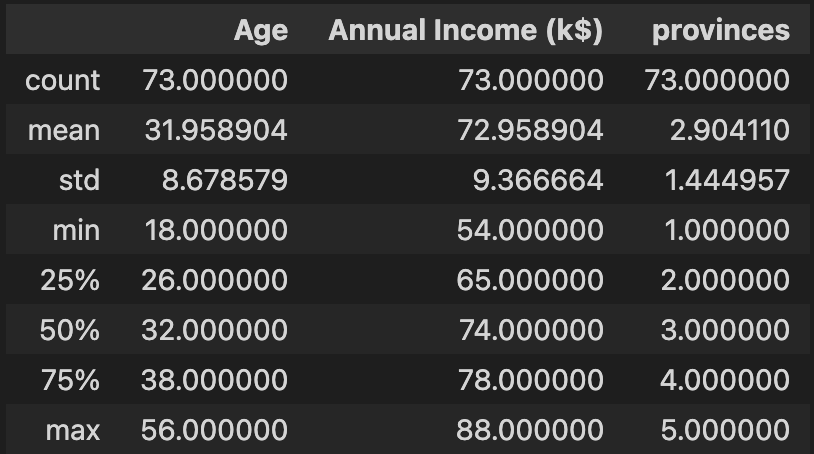
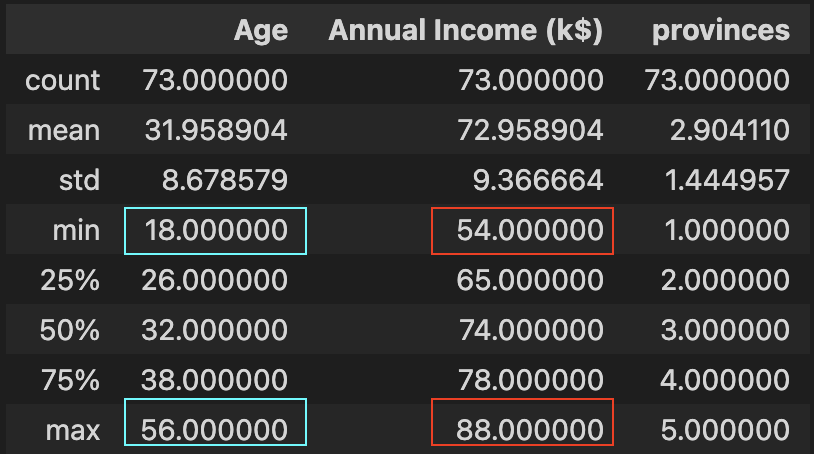
[IMP] added customer_frequency data to analysis

diff --git a/journals/2-cust-seg.html b/journals/2-cust-seg.html
@@ -174,7 +174,7 @@
                             <li>Plot result</li>
                             <p>I know, the chart is hella-funky. Bottom line is, we want to know which cluster is the most dense. Hence we can count how many are there using code, and result, is the first cluster with 73 variables.</p>
                             <img class="img-fluid" src="../assets/posts/2-cust-seg-model5.png" alt="..." />
-                            <p>Now, we analyse deeper on first cluster, below the summary of the data in cluster 1 & countplot of the province showing which is the top province, shows that we can focus on age between 18-56, income between 54-88, province 1 & 3 (java and sulawesi)</p>
+                            <p>Now, we analyse deeper on first cluster, below the summary of the data in cluster 1 & countplot of the province showing which is the top province, shows that we can focus on <u>age between 18-56, income between 54-88, province 1 & 3 (java and sulawesi)</u></p>
                             <img class="img-fluid" src="../assets/posts/2-cust-seg-model7.png" alt="..." />
                             <br/>
                             <br/>
@@ -234,8 +234,60 @@
 
                         </ol>
 
+                        <!-- p8 -->
+                        <h2 class="section-heading">Taking a Step Further</h2>
+                        <p>Let's introduce another variable "customer_frequency" which represents, how frequent does the customer come to our shop and made purchase. its a good feature as we can know from here on what kind of customer we have that has come most frequently</p>
+                        <p>Remember, OSEMN is not a linear process, its an iterative process. meaning we might go back to one of the step again in order to improve the model</p>
+
+                        <h4 class="section-heading">Proposed Solution</h4>
+                        <p>As our main question is "which group of people we should focus on to reach out by our marketing team?", proposed solution is :</p>
+                       
+
+                        <p><b>1) Add in "customer_frequency" data & make sure its clean (Obtain & Scrub)</b></p>
+                        <ul>
+                            <li>For this example, we will be using dummy data, below is peek of the data</li>
+                            <img class="img-fluid" src="../assets/posts/2-cust-seg-imp-o1.png" alt="..." />
+                        </ul>
+
+
+                        <p><b>2) Calculate mean of the "customer_freqency" feature & get data that is above mean only (Explore)</b></p>
+                        <ul>
+                            <li>From .describe(), we can see the mean is 9 (round down)</li>
+                            <img class="img-fluid" src="../assets/posts/2-cust-seg-imp-e1.png" alt="..." />
+                        </ul>
+
+
+                        <p><b>3) Do k-means to get which cluster we should focus on (Model)</b></p>
+                        <ul>
+                            <img class="img-fluid" src="../assets/posts/2-cust-seg-imp-m1.png" alt="..." />
+                            <li>We can see above that after number 6 on the x-axis, the decrease aren't much anymore, hence K=6. and below is K-means plot with K=6</li>
+                            <img class="img-fluid" src="../assets/posts/2-cust-seg-imp-m2.png" alt="..." />
+                            <li>It does make sense too if we select two biggest cluster (not one). And from calculating on how much data in each cluster, we can see that cluster 3 & 4 is the most</li>
+                            <img class="img-fluid" src="../assets/posts/2-cust-seg-imp-m3.png" alt="..." />
+                        </ul>
+
+                
+                        <p><b>4) Recommend result to marketing team (iNterpret)</b></p>
+                        <ul>
+                            <li>With this result, we can recommend the marketing team that we should focus on :</li>
+                            <ul>
+                                <li>Age group between 19-52</li>
+                                <li>Annual income between 15-88</li>
+                                <li>Province 2 & 5 (Kalimantan & Sulawesi)</li>
+                            </ul>
+                            
+                            <img class="img-fluid" src="../assets/posts/2-cust-seg-imp-i1.png" alt="..." />
+                            <img class="img-fluid" src="../assets/posts/2-cust-seg-imp-i2.png" alt="..." />
+                        </ul>
+
+
+
+
+
+
                         <h2 class="section-heading">Final words from Dwi</h2>
-                        <p>For those who scrolled to the end, Thanks for reading, and here's the <a href="https://github.com/dwihdyn/ds-exploration/blob/main/p5/mcs.ipynb">source code</a> to play around! (Especially the 3D model part)</p>
+                        <p>On <i>how_you_find_us</i> and <i>industry</i> data were intentionally not included, as it's for interested readers out there that want to explore more on the capabilities of k-means algo with more features</p>
+                        <p>For those who scrolled to the end, Thanks for reading, and here's the <a href="https://github.com/dwihdyn/ds-exploration/blob/main/p5/mcs.ipynb">source code</a> to play around! (Especially the 3D model part & adding more features)</p>
 
 
 
